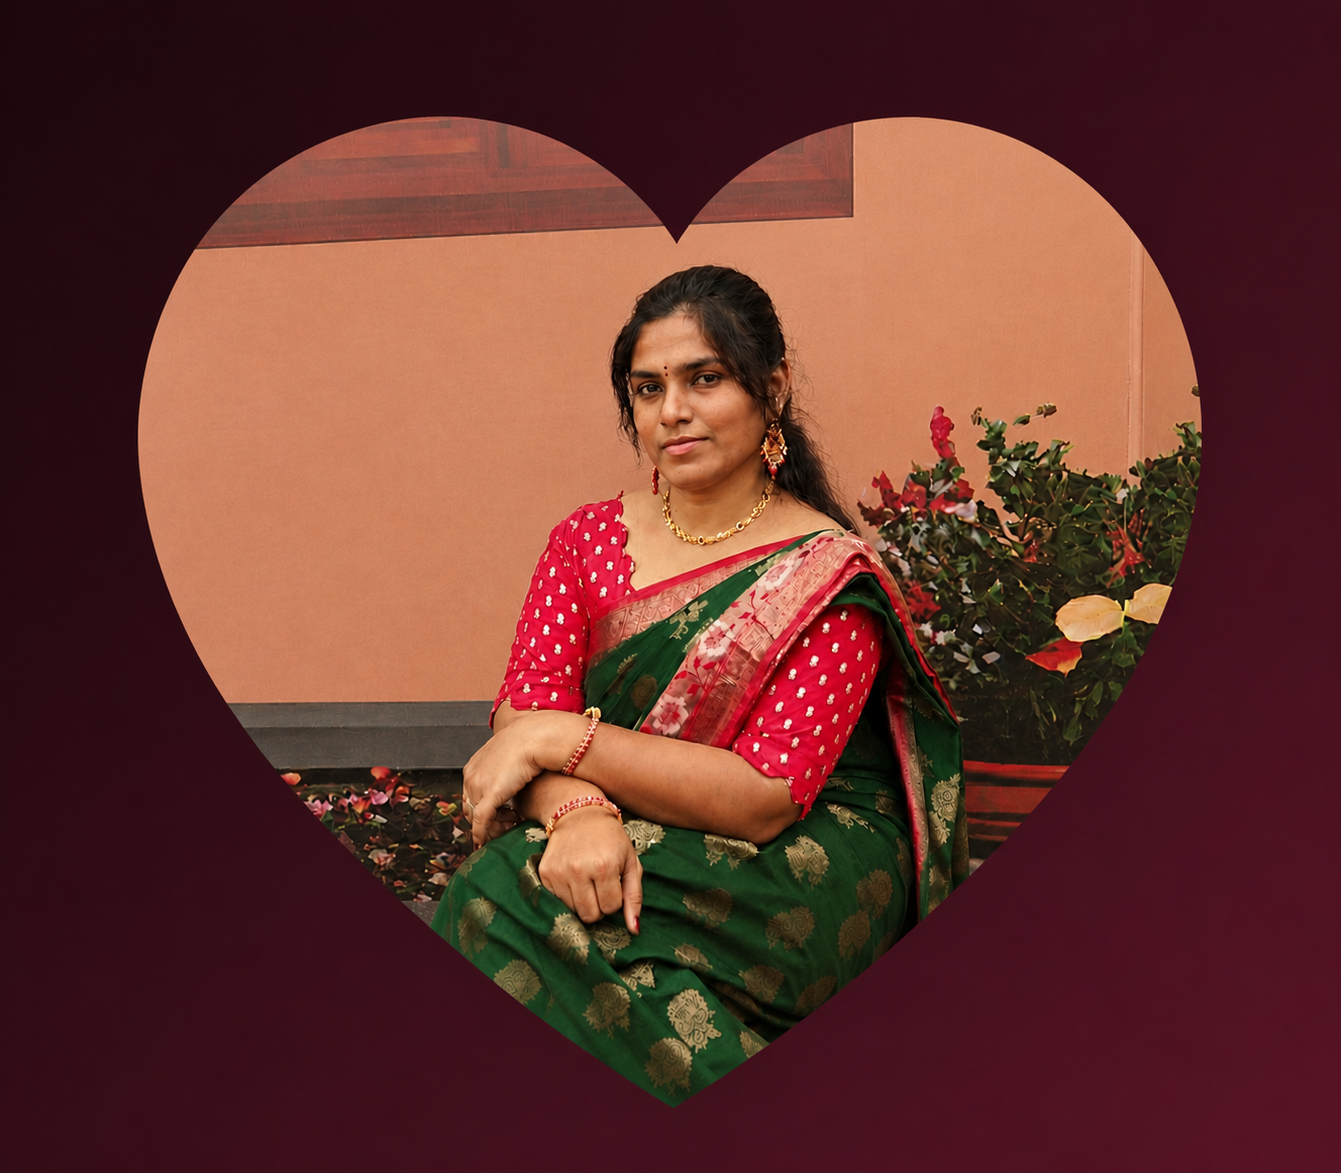
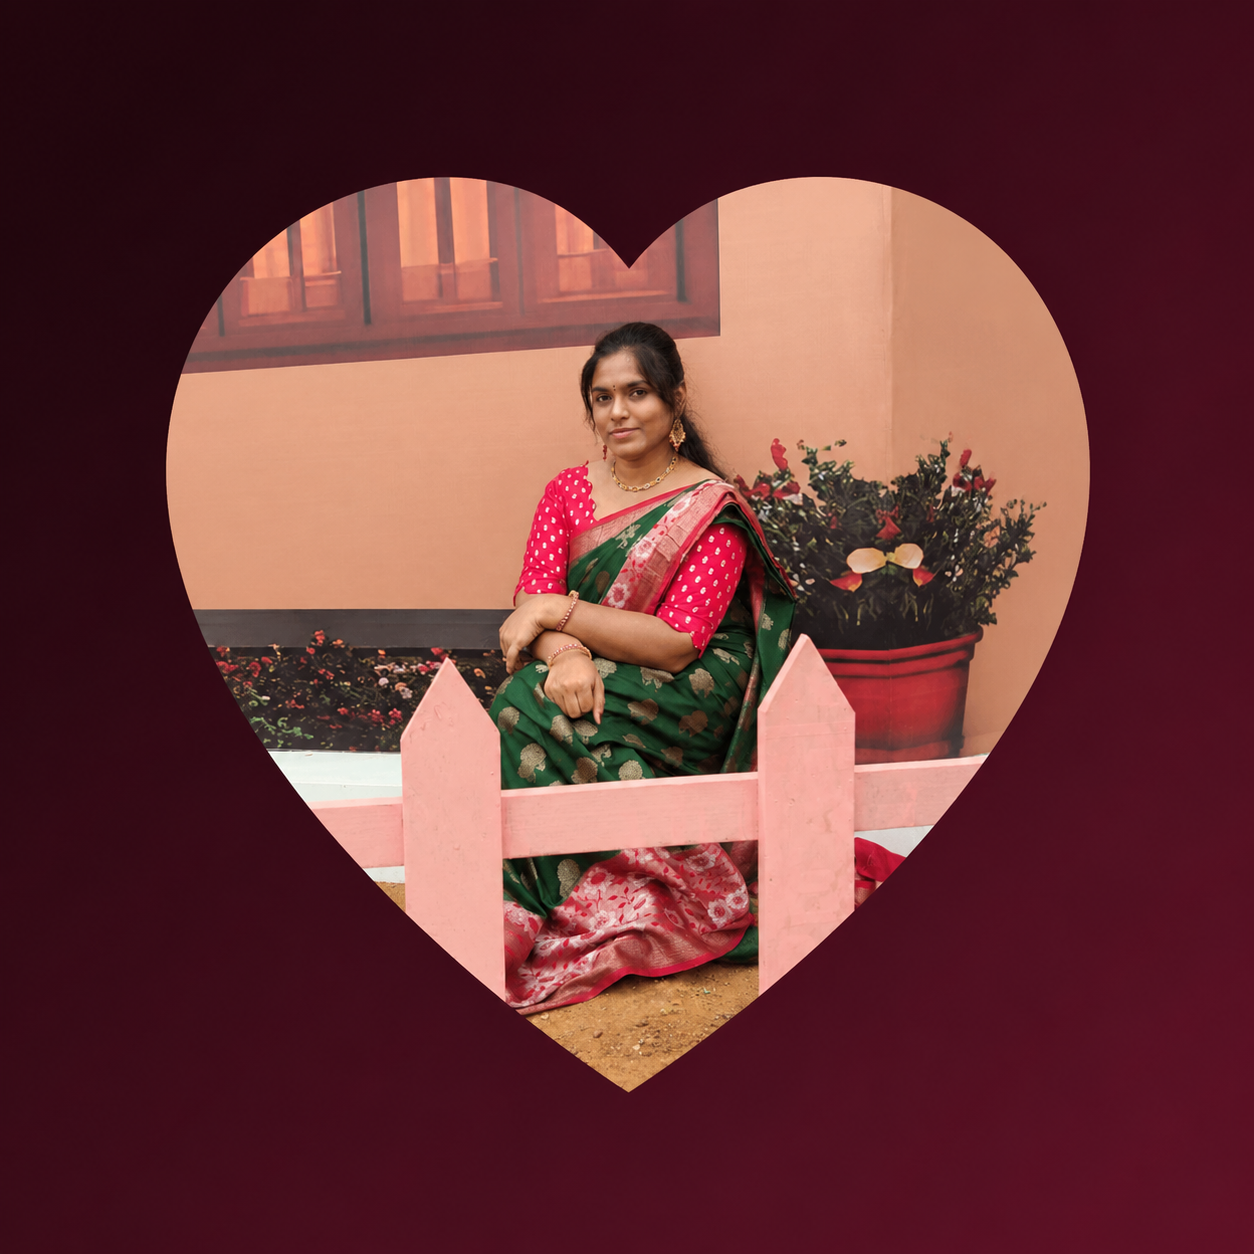
Fixed notifications, overview polling, and wired up reject deletion

diff --git a/src/components/GallerySection.tsx b/src/components/GallerySection.tsx
@@ -86,27 +86,69 @@ const GallerySection = ({ onComplete }: GallerySectionProps) => {
           ) : (
             <motion.div
               key="final"
-              initial={{ opacity: 0, scale: 0.8, rotate: -5 }}
-              animate={{ opacity: 1, scale: 1, rotate: 0 }}
-              transition={{ type: "spring", damping: 15, stiffness: 100 }}
-              className="flex flex-col items-center gap-6"
+              initial={{ opacity: 0 }}
+              animate={{ opacity: 1 }}
+              transition={{ duration: 1 }}
+              className="flex flex-col lg:flex-row items-center justify-center gap-8 w-full max-w-7xl px-4"
             >
-              <div className="relative w-full max-w-4xl rounded-xl overflow-hidden shadow-2xl">
-                <img
-                  src={FINAL_IMAGE}
-                  alt="Final Memory"
-                  className="w-full max-h-[70vh] object-contain"
-                />
-              </div>
+              {/* Left Side: Portrait */}
               <motion.div 
-                initial={{ y: 20, opacity: 0 }}
-                animate={{ y: 0, opacity: 1 }}
-                transition={{ delay: 1 }}
-                className="text-center"
+                initial={{ x: -50, opacity: 0 }}
+                animate={{ x: 0, opacity: 1 }}
+                transition={{ delay: 0.5, duration: 0.8 }}
+                className="w-full lg:w-1/2 flex justify-center"
               >
-                <p className="text-white font-cursive text-2xl sm:text-4xl drop-shadow-lg">
-                  Every moment with you is a treasure Nanna...
-                </p>
+                <div className="relative w-full max-w-md aspect-[4/5] rounded-2xl overflow-hidden shadow-[0_20px_50px_rgba(0,0,0,0.3)] border border-white/10">
+                  <img
+                    src={FINAL_IMAGE}
+                    alt="Final Memory"
+                    className="w-full h-full object-cover"
+                  />
+                </div>
+              </motion.div>
+
+              {/* Right Side: Butterfly Background with Animated Text */}
+              <motion.div 
+                initial={{ x: 50, opacity: 0 }}
+                animate={{ x: 0, opacity: 1 }}
+                transition={{ delay: 0.8, duration: 0.8 }}
+                className="w-full lg:w-1/2 relative aspect-square lg:aspect-[4/5] flex items-center justify-center p-8 rounded-2xl overflow-hidden shadow-2xl"
+              >
+                {/* Background Image */}
+                <img 
+                  src="/butterfly-msg.jpg" 
+                  alt="Message Background" 
+                  className="absolute inset-0 w-full h-full object-cover opacity-60"
+                />
+                <div className="absolute inset-0 bg-black/40" />
+
+                {/* Animated Text Lines */}
+                <div className="relative z-10 space-y-4 max-w-lg">
+                  {[
+                    "I honestly don’t know what my presence means to you or how important this connection is in your life.",
+                    "But I know one thing for certain…",
+                    "When you entered my life, you brought back the smiles, trust, and happiness I had once lost.",
+                    "A world I thought had disappeared somehow came back just through knowing you.",
+                    "So even if this may be just a normal acquaintance to you, to me it is something very special—something that brought life back into my world.",
+                    "---",
+                    "In a time where many girls cross all boundaries without restraint,",
+                    "she is like a moonlight beauty who has gracefully set her own limits —",
+                    "soft, serene, and rare… a soul that shines with quiet dignity and self-respect"
+                  ].map((line, idx) => (
+                    <motion.p
+                      key={idx}
+                      initial={{ opacity: 0, y: 10 }}
+                      animate={{ opacity: 1, y: 0 }}
+                      transition={{ delay: 1.5 + idx * 0.8, duration: 0.6 }}
+                      className={`text-white font-cursive leading-relaxed drop-shadow-md ${
+                        line === "---" ? "opacity-0 h-2" : 
+                        idx < 5 ? "text-lg sm:text-xl text-pink-100" : "text-lg sm:text-xl text-yellow-100 italic"
+                      }`}
+                    >
+                      {line === "---" ? "" : line}
+                    </motion.p>
+                  ))}
+                </div>
               </motion.div>
             </motion.div>
           )}

diff --git a/index.html b/index.html
@@ -7,8 +7,7 @@
     <title>Harshi's Bday Video</title>
     <meta name="description" content="A special birthday surprise for Harshi" />
     <meta name="author" content="Pradeep" />
-    <link rel="icon" type="image/x-icon" href="/favicon.ico" />
-
+    <link rel="icon" type="image/png" href="/favicon.png" />
     <!-- TODO: Update og:title to match your application name -->
     <meta property="og:title" content="Harshi's Bday Video" />
     <meta property="og:description" content="Lovable Generated Project" />